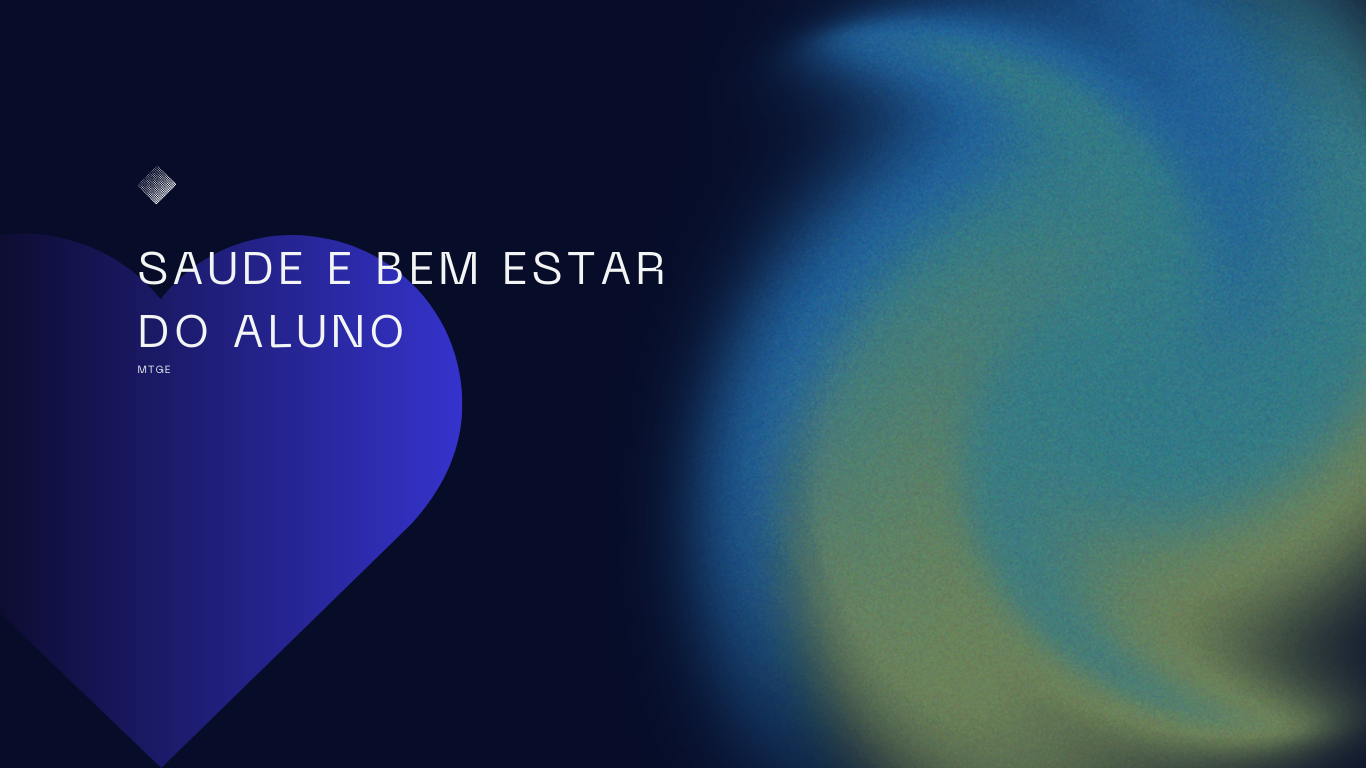
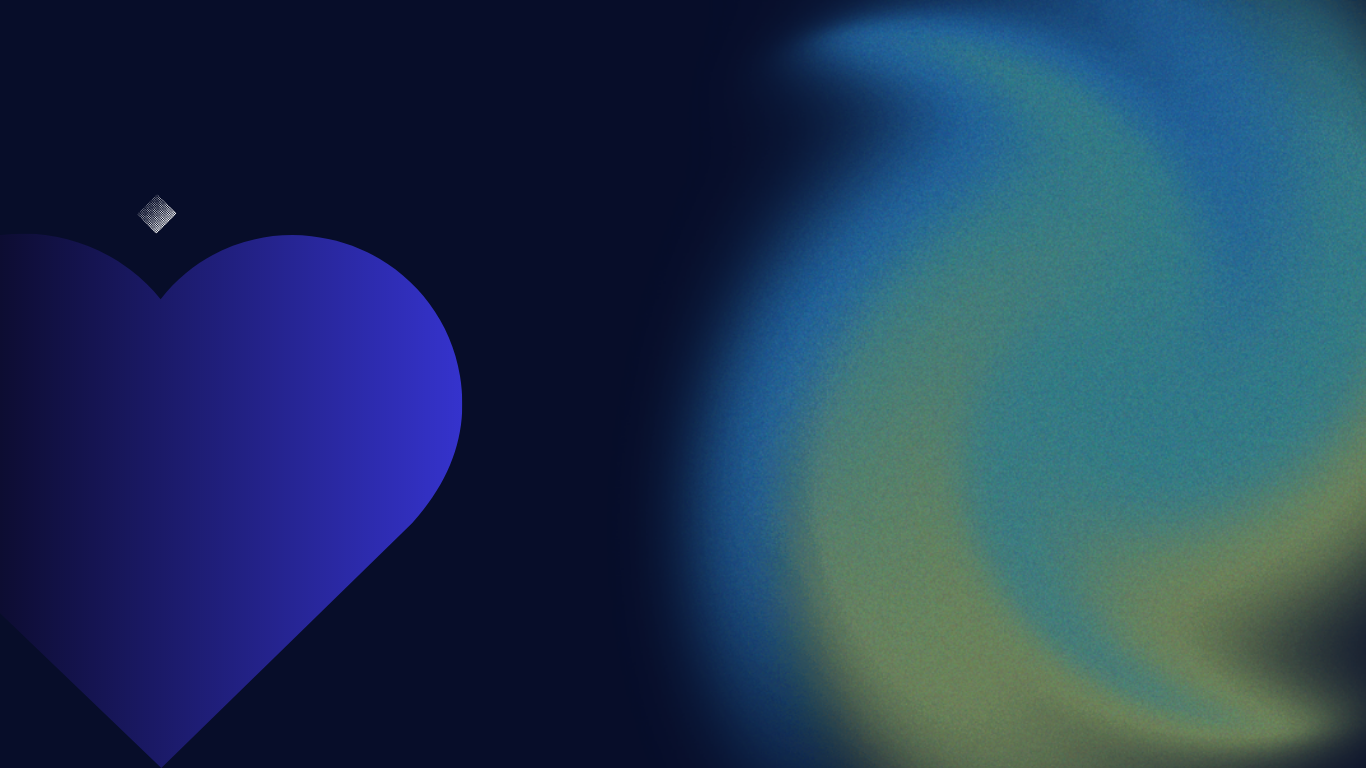
vai interrrrrrrrrrrr

Changed region(s): [[0.0922, 0.2188, 0.4919, 0.375], [0.0922, 0.4062, 0.3075, 0.5]]

diff --git a/index.css b/index.css
@@ -2,9 +2,20 @@
 @import url('https://fonts.googleapis.com/css2?family=Alice&display=swap');
 @import url('https://fonts.googleapis.com/css2?family=Alata&family=Montserrat:wght@400;600&display=swap');
 @import url('https://fonts.googleapis.com/css2?family=Signika&display=swap');
+@import url('https://db.onlinewebfonts.com/c/38d41072aa88a50711d4d50dd0d50f6b?family=Neue+Machina');
+@font-face {
+    font-family: "Neue Machina";
+    src: url("//db.onlinewebfonts.com/t/38d41072aa88a50711d4d50dd0d50f6b.eot");
+    src: url("//db.onlinewebfonts.com/t/38d41072aa88a50711d4d50dd0d50f6b.eot?#iefix") format("embedded-opentype"),
+    url("//db.onlinewebfonts.com/t/38d41072aa88a50711d4d50dd0d50f6b.woff2") format("woff2"),
+    url("//db.onlinewebfonts.com/t/38d41072aa88a50711d4d50dd0d50f6b.woff") format("woff"),
+    url("//db.onlinewebfonts.com/t/38d41072aa88a50711d4d50dd0d50f6b.ttf") format("truetype"),
+    url("//db.onlinewebfonts.com/t/38d41072aa88a50711d4d50dd0d50f6b.svg#Neue Machina") format("svg"); 
+}
+
 
 * {
-    font-family: 'Open Sans', sans-serif;
+    font-family: 'Neue Machina', 'sans-serif';
     margin: 0;
     padding: 0;
 }
@@ -25,17 +36,31 @@ body {
     align-items: center;
 }
 
+.container-titulo {
+    color: #CCCCCC;
+    font-size: 300%;
+    font-weight: 100;
+}
+
+.container-subtitulo {
+    color: #CCCCCC;
+    font-size: 75%;
+    font-weight: 100;
+}
+
 .container-button-continuar {
+    font-weight: 100;
+    display: flex;
     width: 20%;
     padding: 1%;
     cursor: pointer;
-    font-family: "Open Sans";
     background: none;
     color: #12E1B9;
     border: 2.5px solid;
     border-color: #12E1B9;
-    border-radius: 500px;
+    border-radius: 10px;
     position: absolute;
     bottom: 0;
     margin-bottom: 5%;
+    justify-content: space-between;
 }

diff --git a/page1.css b/page1.css
@@ -10,7 +10,9 @@
 
 body {
     margin: 5%;
-    background-color: #000000;
+    background-repeat: no-repeat;
+    background-size: cover;
+    background-image: url(src/Vagabunda.png);
 }
 
 .container {
@@ -19,7 +21,7 @@ body {
     flex-direction: column;
     width: 100%;
     height: 100%;
-    background-color: #101010;
+    background-color: rgba(0, 0, 0, 0.75);
 }
 
 .container-texto-titulo {
@@ -39,4 +41,28 @@ body {
     margin-bottom: 2.5%;
     color: #ffffff;
     font-size: 150%;
+}
+
+.container-b {
+    border-radius: 20px;
+    display: flex;
+    flex-direction: column;
+    width: 100%;
+    height: 100%;
+    align-items: center;
+}
+
+.container-b-button-continuar {
+    font-weight: 100;
+    display: flex;
+    width: 20%;
+    padding: 1%;
+    cursor: pointer;
+    background: none;
+    color: #12E1B9;
+    border: 2.5px solid;
+    border-color: #12E1B9;
+    border-radius: 10px;
+    margin-top: 5%;
+    justify-content: space-between;
 }

diff --git a/index.html b/index.html
@@ -6,12 +6,18 @@
     <meta http-equiv="X-UA-Compatible" content="IE=edge">
     <meta name="viewport" content="width=device-width, initial-scale=1.0">
     <link rel="stylesheet" href="index.css">
+    <link href="//db.onlinewebfonts.com/c/38d41072aa88a50711d4d50dd0d50f6b?family=Neue+Machina" rel="stylesheet" type="text/css"/>
     <title>Saúde e Bem Estar do Aluno</title>
 </head>
 
 <body>
     <div class="container">
-        <button class="container-button-continuar" onclick="window.open('https://www.youtube.com/watch?v=VUPB65cTHCY', '_blank')">CONTINUAR</button>
+        <h1 class="container-titulo">SAÚDE E BEM ESTAR DO ALUNO</h1>
+        <H3 class="container-subtitulo">MTGE</H3>
+        <button class="container-button-continuar" onclick="window.location.replace('page1.html')">
+            <p>CONTINUAR</p>
+            <p>></p>
+        </button>
     </div>
 </body>
 

diff --git a/page1.html b/page1.html
@@ -18,6 +18,12 @@
         <span class="container-texto-integrante">Erick Alexandre Amorim Bittencourt</span>
         <span class="container-texto-integrante">Gabriel Martins Olsieski</span>
     </div>
+    <div class="container-b">
+        <button class="container-b-button-continuar" onclick="window.location.replace('index.html')">
+            <p>VOLTAR</p>
+            <p><</p>
+        </button>
+    </div>
 </body>
 
 </html>
